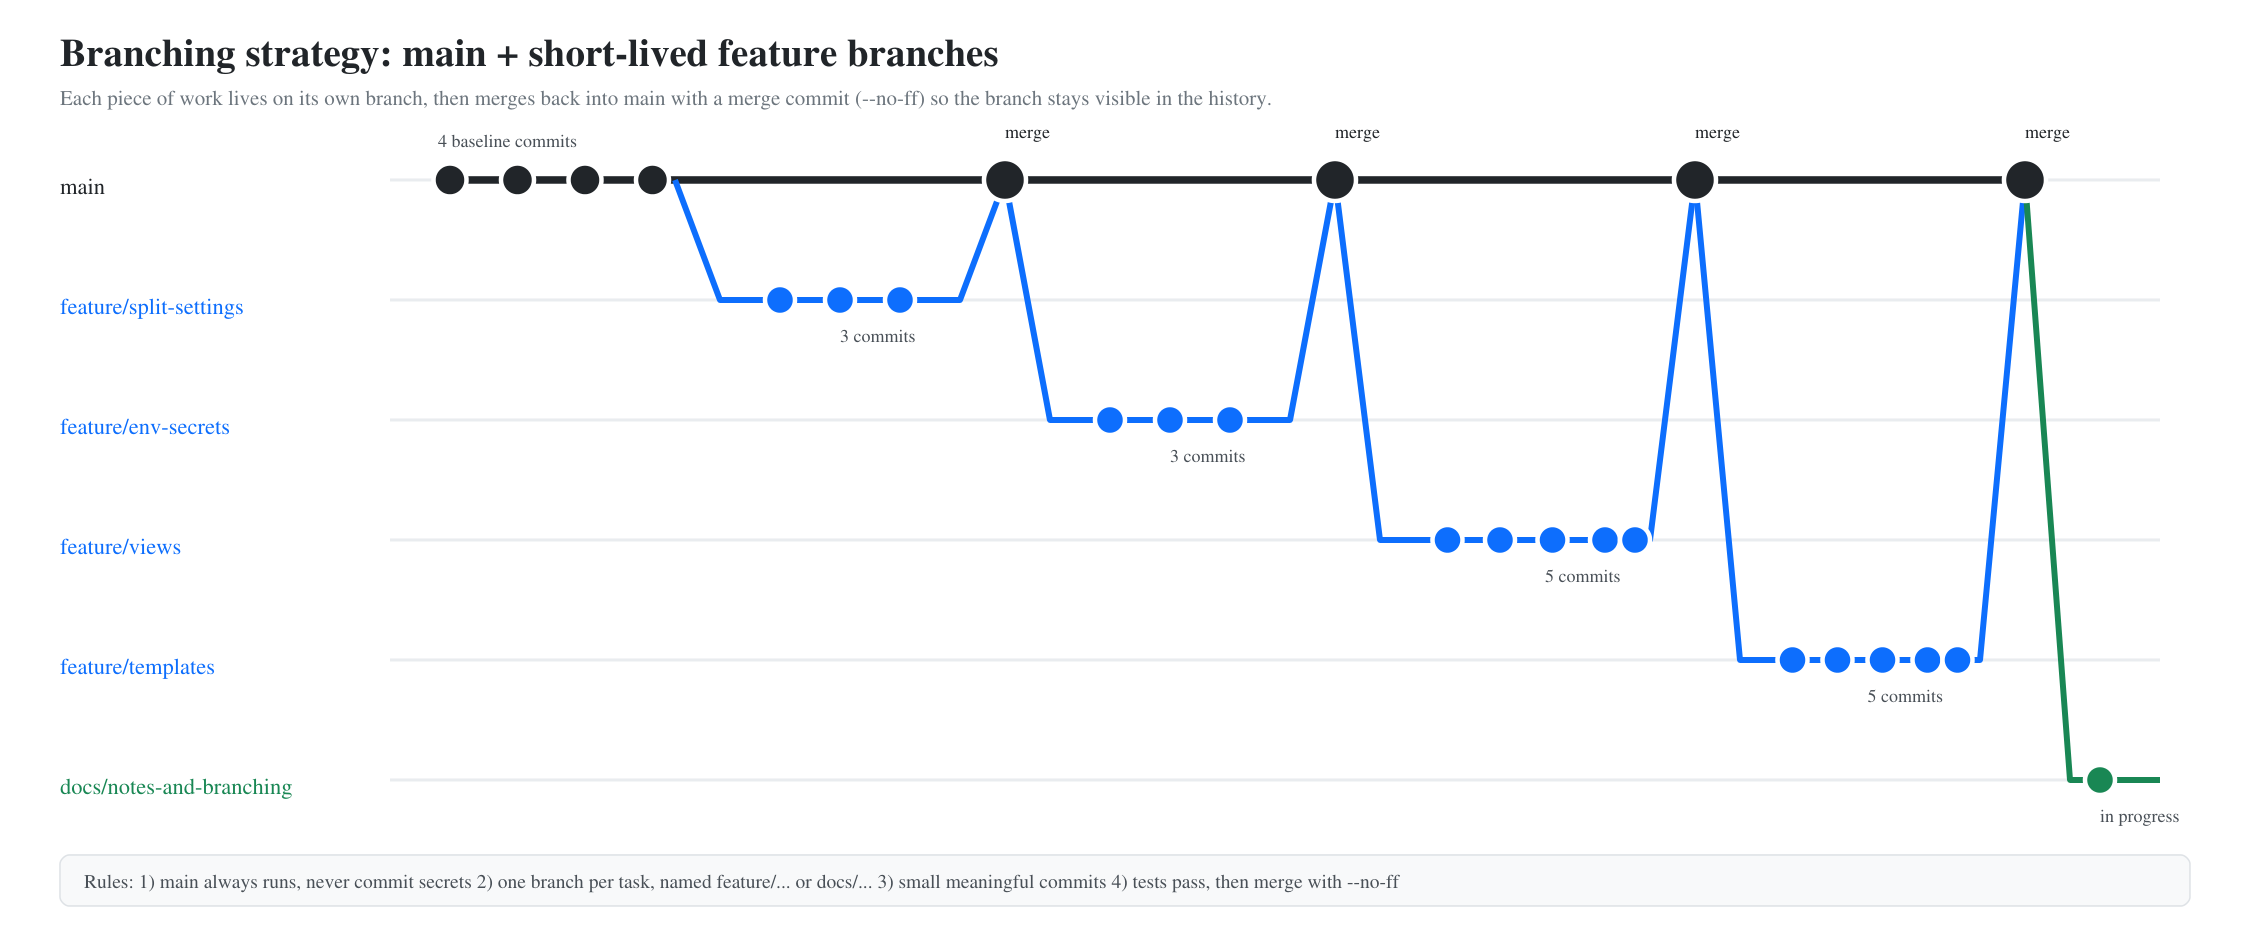
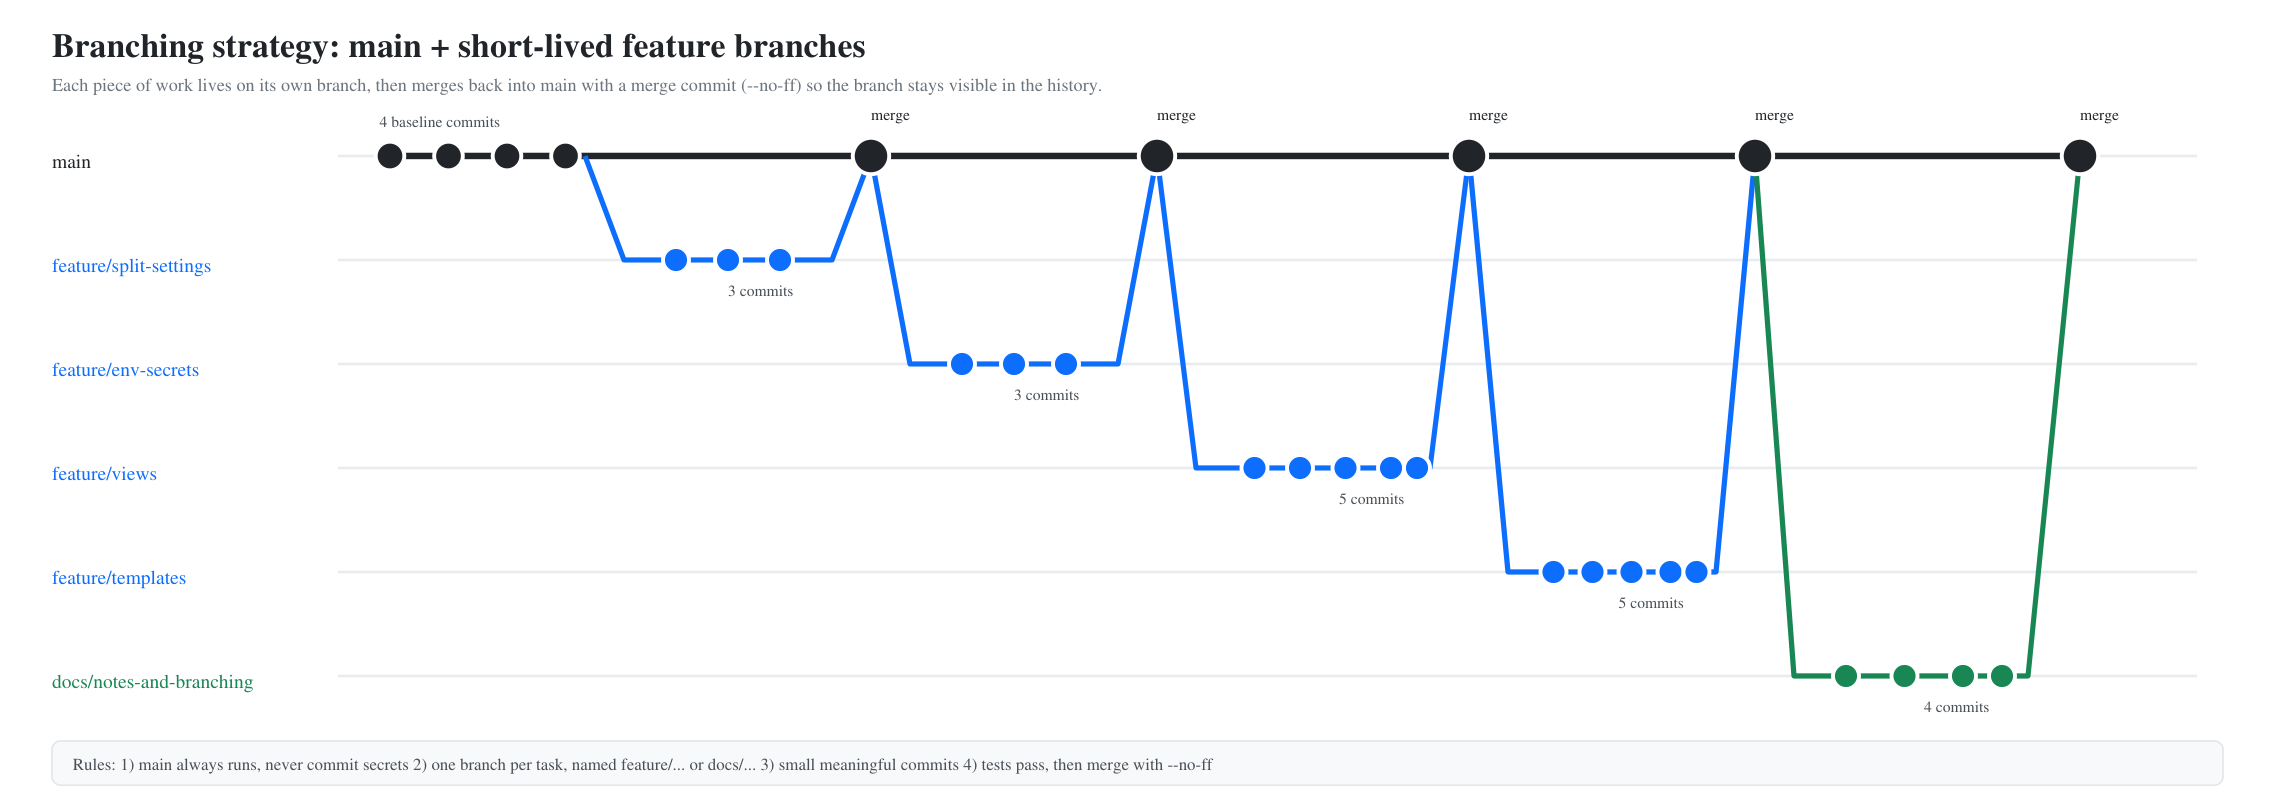
Update branching diagram and table to show the finished docs branch

diff --git a/docs/branching_strategy/branching_strategy.md b/docs/branching_strategy/branching_strategy.md
@@ -72,7 +72,7 @@ git push
 | 3 | `feature/env-secrets` | `SECRET_KEY` and API keys moved into `.env` | 3 |
 | 4 | `feature/views` | Four view kinds and their named URLs | 5 |
 | 5 | `feature/templates` | `base.html`, list template with `{% empty %}`, detail template, tests | 5 |
-| 6 | `docs/notes-and-branching` | Screenshots, this document, notes, README | in progress |
+| 6 | `docs/notes-and-branching` | Screenshots, this document, notes, README | 4 |
 
 Run `git log --oneline --graph --all` to see the same picture from the real history.
 
